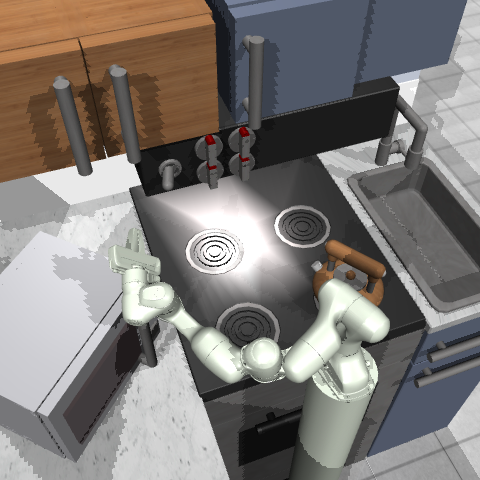
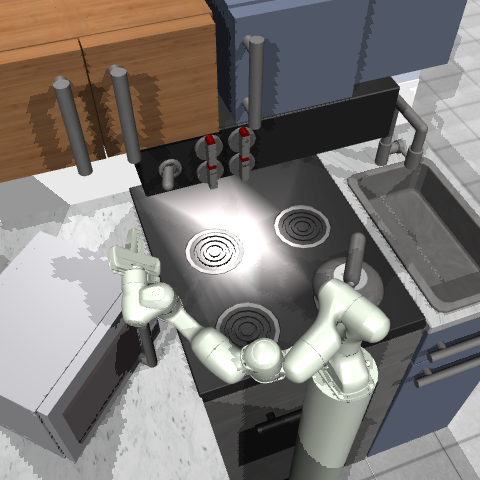
update README

diff --git a/README.md b/README.md
@@ -75,8 +75,8 @@ MUJOCO_GL=egl EGL_DEVICE_ID=0 python -u process_demos.py \
 --RENDER_SIZE 256 256 \
 --ROBOT franka2 \
 --NUM_WORKERS 12 --LOG 0 \
---CTRL_MODE abspos \
---OUT_DIR workdir/c6r256_abspos
+--CTRL_MODE absvel \
+--OUT_DIR workdir/c6r256_absvel
 ```
 
 ## Baselines
@@ -106,7 +106,7 @@ env = kitchen_shift.MujocoWorldgenKitchenEnvWrapper(env)
 
 domain_params = [
     ('change_microwave', 3),
-    ('change_kettle', 5),
+    ('change_kettle', 2),
     ('change_camera', 2),
     ('change_objects_layout', 'microwave', 'closer_angled'),
     ('change_objects_layout', 'kettle', 'bot_right_angled'),
@@ -128,7 +128,7 @@ for _ in range(1):
 import cv2
 
 img = env.render(mode='rgb_array', height=rs[0], width=rs[1])
-cv2.imwrite('assets/compose_worldgen_example.png', img)
+cv2.imwrite('assets/compose_worldgen_example.png', img[:, :, ::-1])
 
 env.reset()  # domain shifts are still applied
 
